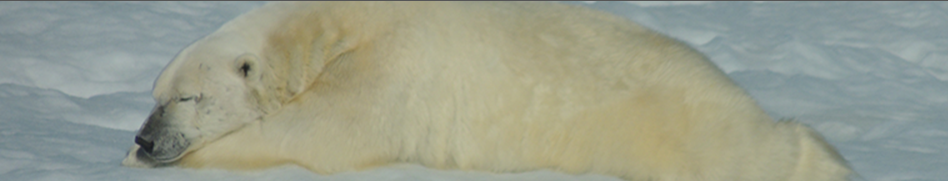
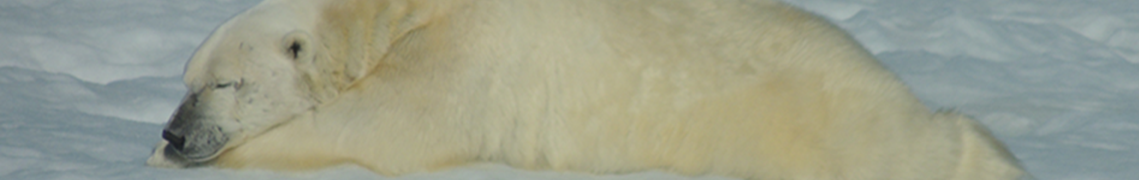
content and layout updates

diff --git a/js/content.js b/js/content.js
@@ -13,13 +13,24 @@ var content =
 				// assume that if "data" is an array, children of this node will be numbered to correspond to array indices.
 				"data": [
 					{
+						"name": "Hey Duwamish!",
+						"thumbnail": "img/duwamishIcon.png",
+						"mainImgs": ["img/duwamish1.png"],
+						"blurb": "I recently started contributing to this open source effort to track and visualize data about Seattle's Lower Duwamish Waterway.",
+						"fullDescription": "Hey Duwamish! is an interactive map that tracks environmental information about the Lower Duwamish Waterway.<br><br>I began collaborating on this open source project in November, 2015, working primarily on front-end features.",
+						"role": ["Front-end development"],
+						"collaborators": null,
+						"tags": ["Web development", "JavaScript", "MapBox"],
+						"link": ["Visit Hey Duwamish!", "http://www.heyduwamish.org"]
+					},
+					{
 						"name": "Augury",
 						"thumbnail": "img/auguryIcon.png",
 						"mainImgs": ["img/augury1.png", "img/augury2.png", "img/augury3.png"],
 						"blurb": "Built on several years of research, Augury is a web application that helps designers understand the aesthetic appeal of their work.",
 						"fullDescription": "Augury is a single-page AngularJS web application based on research into web users' aesthetic preferences.<br /><br /><a href='https://homes.cs.washington.edu/~reinecke/Publications_files/Reinecke_CHI2013.pdf'>Research suggests</a> that visual complexity and colorfulness strongly affect aesthetic appeal. Augury determines the complexity and colorfulness of user-submitted images, then provides appeal ratings by country.<br><br>I developed all aspects of the application, except the low-level Java code that analyzes image features.",
 						"role": ["Front-end development", "Back-end development", "Graphic design", "Design research"],
-						"collaborators": [["Katharina Reinecke", "https://homes.cs.washington.edu/~reinecke/"]],
+						"collaborators": null,
 						"tags": ["Web development", "Web design", "JavaScript", "AngularJS", "Java", "D3.js", "Illustrator"],
 						"link": ["Try the demo!", "http://ec2-52-88-229-218.us-west-2.compute.amazonaws.com:8080/webapp/web/app.html"]
 					},
@@ -30,20 +41,9 @@ var content =
 						"blurb": "LabintheWild is a platform for conducting large-scale experiments in the fields of psychology and human-computer interaction.",
 						"fullDescription": "LabintheWild is a collection of interactive experiments that leverage social comparisons among participants to generate interest. LabintheWild draws thousands of participants from all over the world, helping to make science <a href='http://lessweird.org' target='_blank'>less WEIRD!</a><br /><br />During my time with LabinthWild, I maintained the site itself, developed and launched several experiments, oversaw localization of the site's content into four languages, analyzed data from past experiments, and worked with team members to develop their own experiments.",
 						"role": ["Front-end development", "Back-end development", "Graphic design", "Data analysis"],
-						"collaborators": [["Katharina Reinecke", "https://homes.cs.washington.edu/~reinecke/"], ["Carol Moser", "https://www.linkedin.com/in/carol-moser-50b0b4a"], ["Yan Chen", "https://www.si.umich.edu/people/yan-chen-0"], ["Nick Strayer", "http://nickstrayer.me/"]],
+						"collaborators": null,
 						"tags": ["Web development", "Web design", "JavaScript", "jQuery", "D3.js", "PHP", "SQL", "API design", "R"],
 						"link": ["Visit LabintheWild", "http://www.labinthewild.org"]
-					},
-					{
-						"name": "Hey Duwamish!",
-						"thumbnail": "img/duwamishIcon.png",
-						"mainImgs": ["img/duwamish1.png"],
-						"blurb": "I recently started contributing to this open source effort to track and visualize data about Seattle's Lower Duwamish Waterway.",
-						"fullDescription": "Hey Duwamish! is an interactive map that tracks environmental information about the Lower Duwamish Waterway.<br><br>I began collaborating on this open source project in November, 2015, working primarily on front-end features.",
-						"role": ["Front-end development"],
-						"collaborators": [["Luke Swart", "https://www.github.com/lukeswart"], ["Jacob Caggiano", "https://twitter.com/futuresoup"]],
-						"tags": ["Web development", "JavaScript", "MapBox"],
-						"link": ["Visit Hey Duwamish!", "http://www.heyduwamish.org"]
 					},
 					{
 						"name": "NEXCAP",
@@ -52,7 +52,7 @@ var content =
 						"blurb": "NEXCAP is a catalog of vacant industrial properties located throughout the country.",
 						"fullDescription": "The National Excess Manufacturing Capacity Catalog (NEXCAP) is a searchable collection of vacant industrial properties throughout the country.<br><br>NEXCAP provides industrial site selection specialists with detailed information about available properties in both print and digital form.<br><br>On this project, I designed print and web content, researched user needs by interviewing site selection specialists, and summarized research findings in a report used by the rest of the team.<br><br>I presented an overview of the projcet to SEMCOG, the Southeast Michigan Council of Governments (bottom picture).",
 						"role": ["Design research", "Print design and layout", "Graphic design", "Interaction design"],
-						"collaborators": [["Greg Lawrence", "https://www.linkedin.com/in/greg-lawrence-1611b965"]],
+						"collaborators": null,
 						"tags": ["Graphic design", "Interaction design", "Design research", "Illustrator", "InDesign"],
 						"link": ["The NEXCAP catalog", "http://www.edastayusa.org"]
 					},
@@ -63,7 +63,7 @@ var content =
 						"blurb": "The Jackson Property Report maps derelict properties in the city of Jackson, MI.<br><br>",
 						"fullDescription": "For a class in citizen interaction design, I worked with a design team and stakeholders at the city of Jackson, MI to research and design an interactive map of condemned properties. The map and accompanying graphics were deisgned to help citizens of the city understand the property demolition process.",
 						"role": ["Design research", "Graphic design", "Interaction design"],
-						"collaborators": [["Andrew Ku", "https://www.linkedin.com/in/andrewisku"], ["Fan Zhang", "https://www.linkedin.com/in/fanzhangux"]],
+						"collaborators": null,
 						"tags": ["Graphic design", "Interaction design", "Design research", "Illustrator"],
 						"link": null
 					},
@@ -74,7 +74,7 @@ var content =
 						"blurb": "The bills search engine indexes twenty years' worth of bills proposed in Congress, allowing users to search over several fields.",
 						"fullDescription": "Built for a class project, this vertical search engine indexes the full text of bills proposed in Congress between 1993 and 2013&#8212;over 30,000 documents.<br /><br />Our team acquired the raw bill text (thanks to <a href='https://www.govtrack.us'>GovTrack</a>), created and refined a search index, and developed a front-end interface for performing searches.",
 						"role": ["Data exploration and preparation", "Back-end development"],
-						"collaborators": [["Steven Hoelscher", "https://www.linkedin.com/in/stevenhoelscher"], ["Greg Lawrence", "https://www.linkedin.com/in/greg-lawrence-1611b965"]],
+						"collaborators": null,
 						"tags": ["Python", "Whoosh", "Data wrangling"],
 						"link": ["Congressional bills search engine", "http://billsearchengine.herokuapp.com/"]
 					},
@@ -85,7 +85,7 @@ var content =
 						"blurb": "The Society 2030 project synthesized academic research about the changing demographic face of the country.",
 						"fullDescription": "What will society look like in 2030? I designed a set of graphics synthesizing research from across the University of Michigan to answer this question. The graphics were used in presentations to corporate partners of the Society 2030 project.",
 						"role": ["Graphic design"],
-						"collaborators": [["Justin Dicenso", "https://www.linkedin.com/in/justin-dicenso-28376a46"]],
+						"collaborators": null,
 						"tags": ["Graphic design", "Illustrator"],
 						"link": null
 					},

diff --git a/css/stylesheet.css b/css/stylesheet.css
@@ -31,12 +31,10 @@ body {
 	background-color: #E7EAEC;
 }
 
-.container {
-	margin-left: 0px;
-	padding-left: 0px;
-}
-
 #left-gutter {
+	position: absolute;
+	left: -135px;
+	top: -8px;
 }
 
 #center {
@@ -47,15 +45,12 @@ body {
 #content {
 	margin-bottom: 75px;
 	overflow: hidden;
+	padding-top: 50px;
 }
 
 #right-gutter {
 	height: 400px;
 
-}
-
-#name-header {
-	font-size: 4em;
 }
 
 .accent-1 {
@@ -67,14 +62,18 @@ body {
 }
 
 .header-img {
+	margin-left: auto;
+	margin-right: auto;
 	margin-bottom: 10px;
+	width: 100%;
+	height: auto;
 }
 
 #main-menu {
 	font-family: Helvetica;
 	color: #777777;
 	text-align: right;
-	font-size: 1.5em;
+	font-size: 1.4em;
 	font-weight: bold;
 	margin-top: 15px;
 	margin-right: 20px;
@@ -82,6 +81,7 @@ body {
 
 .menu-item {
 	cursor: pointer;
+	list-style-type: none;
 }
 
 .menu-item:hover {
@@ -239,6 +239,20 @@ hr {
 }
 
 #footer {
+	width: 100%;
+	height: 40px;
+	bottom: 0;
+	right: 0;
+	position: fixed;
+	text-align: center;
+	color: white;
+	background-color: #809198;
+	padding-top: 10px;
+}
+
+#footer-img {
+	width: 100%;
+	height: 40px;
 	position: fixed;
 	bottom: 0;
 }
@@ -400,5 +414,35 @@ hr {
 	font-family: Helvetica;
 }
 
+#name-header {
+	font-family: ultraLight;
+	color: #777777;
+	line-height: 1em;
+	font-size: 3em;
+}
+
+#pic {
+	text-align: center;
+	margin-top: 40px;
+}
+
+@media only screen and (max-width: 1365px) {
+    #left-gutter {
+    	position: relative;
+    	left: 0;
+    	top: 0;
+    }
+
+    #main-menu {
+    	text-align: center;
+    	padding-left: 0;
+    }
+
+    .menu-item {
+    	display: inline;
+    	margin-left: 15px;
+    	margin-right: 15px;
+    }
+}
 
 

diff --git a/views/homepage.html b/views/homepage.html
@@ -1,9 +1,8 @@
 <script type="text/html" id="homepage_tmpl">
-	<div id="name-header" class="col-md-12">Hello, my name is <strong class="accent-1">Trevor</strong>.</div>
 	<div id="homepage-desc" class="col-md-9">
-		<div>I\'m a <strong>front-end web developer</strong>, <strong>designer</strong>, and recent <strong>Seattle transplant</strong>. I enjoy researching, designing, and building systems that help people make sense of complex information.</div>
-		<div>Combining techincal and design skills with a background in community development, I\'m especially excited about the rising interest in civic technology.</div>
-		<div>I'm equally motivated by the need for intuitive tools for making sense of data and the excitement of learning new technologies and building things.</div>
+		<div id="name-header">Hello, my name is <strong class="accent-1">Trevor</strong>.</div>
+		<div>I am a <strong>web developer</strong>, <strong>designer</strong>, and recent <strong>Seattle transplant</strong>. I enjoy researching, designing, and building systems that help people make sense of complex information.</div>
+		<div>Combining technical and design skills with a background in community development, I am especially excited about the rising interest in civic technology.</div>
 		<div>Have a look at some <strong><a href="#projects">projects</a></strong>, or feel free to <strong><a href="#contact">contact me</a></strong>.</div>
 	</div>
 	<div class="col-md-3" id="pic">

diff --git a/views/projects_menu.html b/views/projects_menu.html
@@ -1,6 +1,5 @@
 <script type="text/html" id="projects_menu_tmpl">
 	<div class="col-md-12">
-		<h4 id="projects_menu_header">The work below represents a mix of web development, graphic design, interaction design, design research, and data analysis projects. Click on a project to learn more about it.</h4>
 	</div>
 	<% for (var i = 0; i < arguments[0].length; i++) { %>
 		<a href="#projects/<%=i%>">	

diff --git a/index.php b/index.php
@@ -2,24 +2,25 @@
 
 <html>
 	<head>
-		<title>Trevor Croxson | Web developer</title>
+		<title>Trevor Croxson</title>
 		<meta charset="utf-8">
+		<meta name="viewport" content="width=device-width, initial-scale=1.0">
 	</head>
 
 	<body>
 		<div class="container" id="main-content">
-			<div class="col-md-2" id="left-gutter">
-				<div id="main-menu">
-					<div id="menu-home" class="menu-item active">Home</div>
-					<div id="menu-projects" class="menu-item inactive">Projects</div>
-					<div id="menu-resume" class="menu-item inactive">Resume</div>
-					<div id="menu-contact" class="menu-item inactive">Contact</div>
-					<a href="https://github.com/goldpbear" target="_blank"><span class="octicon-mark-github icon-link"></span></a>
-					<a href="https://www.linkedin.com/in/trevorcroxson" target="_blank"><img src="img/linkedin_icon.svg" class="icon-link" /></a>
+			<div class="col-md-12" id="center">
+				<img id="header-img-main" src="img/bear_sliver_long.png" class="header-img visible" />
+				<div id="left-gutter">
+					<ul id="main-menu">
+						<li id="menu-home" class="menu-item active">Home</li>
+						<li id="menu-projects" class="menu-item inactive">Projects</li>
+						<!-- <li id="menu-resume" class="menu-item inactive">Resume</li> -->
+						<li id="menu-contact" class="menu-item inactive">Contact</li>
+						<li class="menu-item"><a href="https://github.com/goldpbear" target="_blank"><span class="octicon-mark-github icon-link"></span></a></li>
+						<li class="menu-item"><a href="https://www.linkedin.com/in/trevorcroxson" target="_blank"><img src="img/linkedin_icon.svg" class="icon-link" /></a></li>
+					</ul>
 				</div>
-			</div>
-			<div class="col-md-10" id="center">
-				<img id="header-img-main" width="950px" src="img/bear_sliver_long.png" class="header-img visible" />
 				<!--<img id="header-img-developer" width="760px" src="img/developerBear.png" class="header-img hidden" />
 				<img id="header-img-seattle" width="760px" src="img/seattleBear.png" class="header-img hidden" />
 				<img id="header-img-graduate" width="760px" src="img/graduateBear.png" class="header-img hidden" />
@@ -29,11 +30,9 @@
 				<img id="header-img-urban" width="760px" src="img/urbanBear.png" class="header-img hidden" />
 				<img id="header-img-coro" width="760px" src="img/coroBear.png" class="header-img hidden" />-->
 				<div id="content"></div>
-				<div id="footer">
-					<img src="img/footer_long.png" width="950px" height="45px"/>
-					<div id="copyright">
-						<p>&copy 2016 Trevor Croxson  •  Header image courtesy Jim Croxson</p>
-					</div>
+				<!-- <img src="img/footer_long.png" id="footer-img" /> -->
+				<div id="footer">	
+					&copy 2017 Trevor Croxson  •  Header image courtesy Jim Croxson
 				</div>
 			</div>
 			
